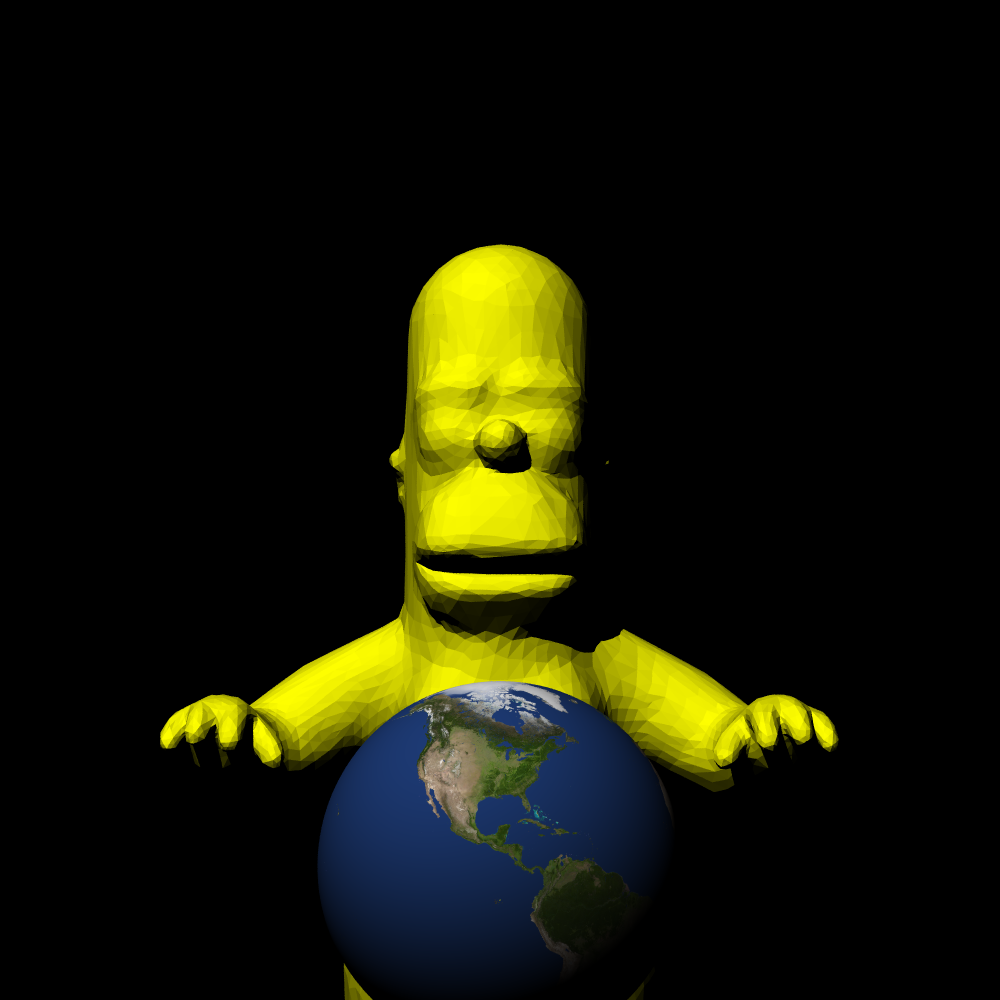
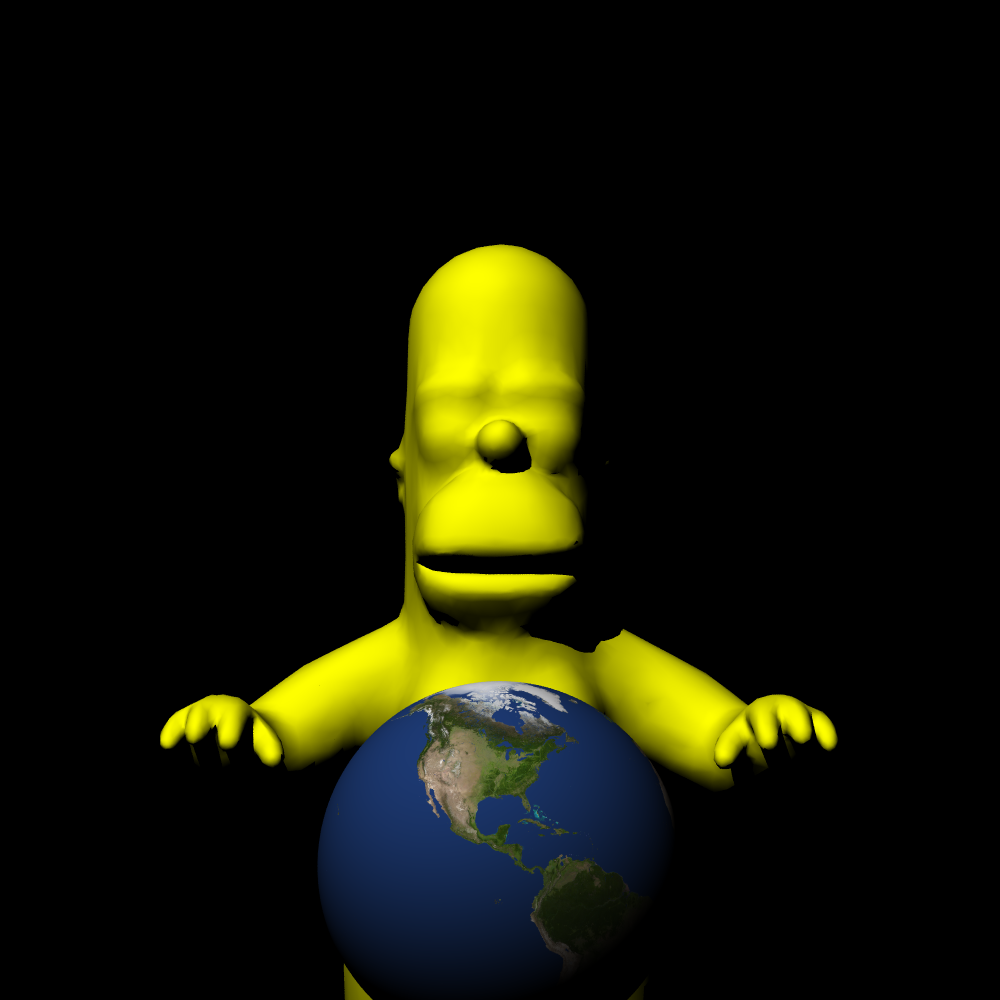
update to readme

diff --git a/README.md b/README.md
@@ -37,7 +37,7 @@ Run the raytracer: Execute the raytracer with the desired command-line arguments
 - `-k [recursion-depth]`: Sets the maximum recursion depth for ray reflections and refractions. Default value of 1.
 - `-i [input_file]`: Specifies the input JSON file containing the scene description. Mandatory argument.
 - `-t [num_threads]`: Specifies the number of threads that will be used to render the image. Default to 1 and max of 16
-
+- `-s [smoothing]`: dictates whether or not smoothing will be turned on. No arguments.
 Output: Once the raytracer finishes execution, the resulting image will be saved in the project directory as `file_name.png`.
 
 ## Examples
@@ -55,8 +55,8 @@ cargo run --release -- -n threeTri -r 4 -i .\SceneData\threeTriangles.json -n th
 cargo run --release -- -n threeTri -r 5 -i .\SceneData\oneEarth.json -n oneEarth
 ```
 ![Alt Text](./IMAGES/oneEarth.png)
-- Generate a 1000x1000 image with an Anti-Aliasing-Coefficient of 3 and using the `homer.json` file as input:
+- Generate a 1000x1000 image with Smoothing, Anti-Aliasing-Coefficient of 3 and using the `homer.json` file as input:
 ```
-cargo run --release -- -n threeTri -r 3 -i .\SceneData\homer.json -n homer
+cargo run --release -- -r 3 -i .\SceneData\homer.json -n homer -s -w 1000
 ```
 ![Alt Text](./IMAGES/homer.png)
